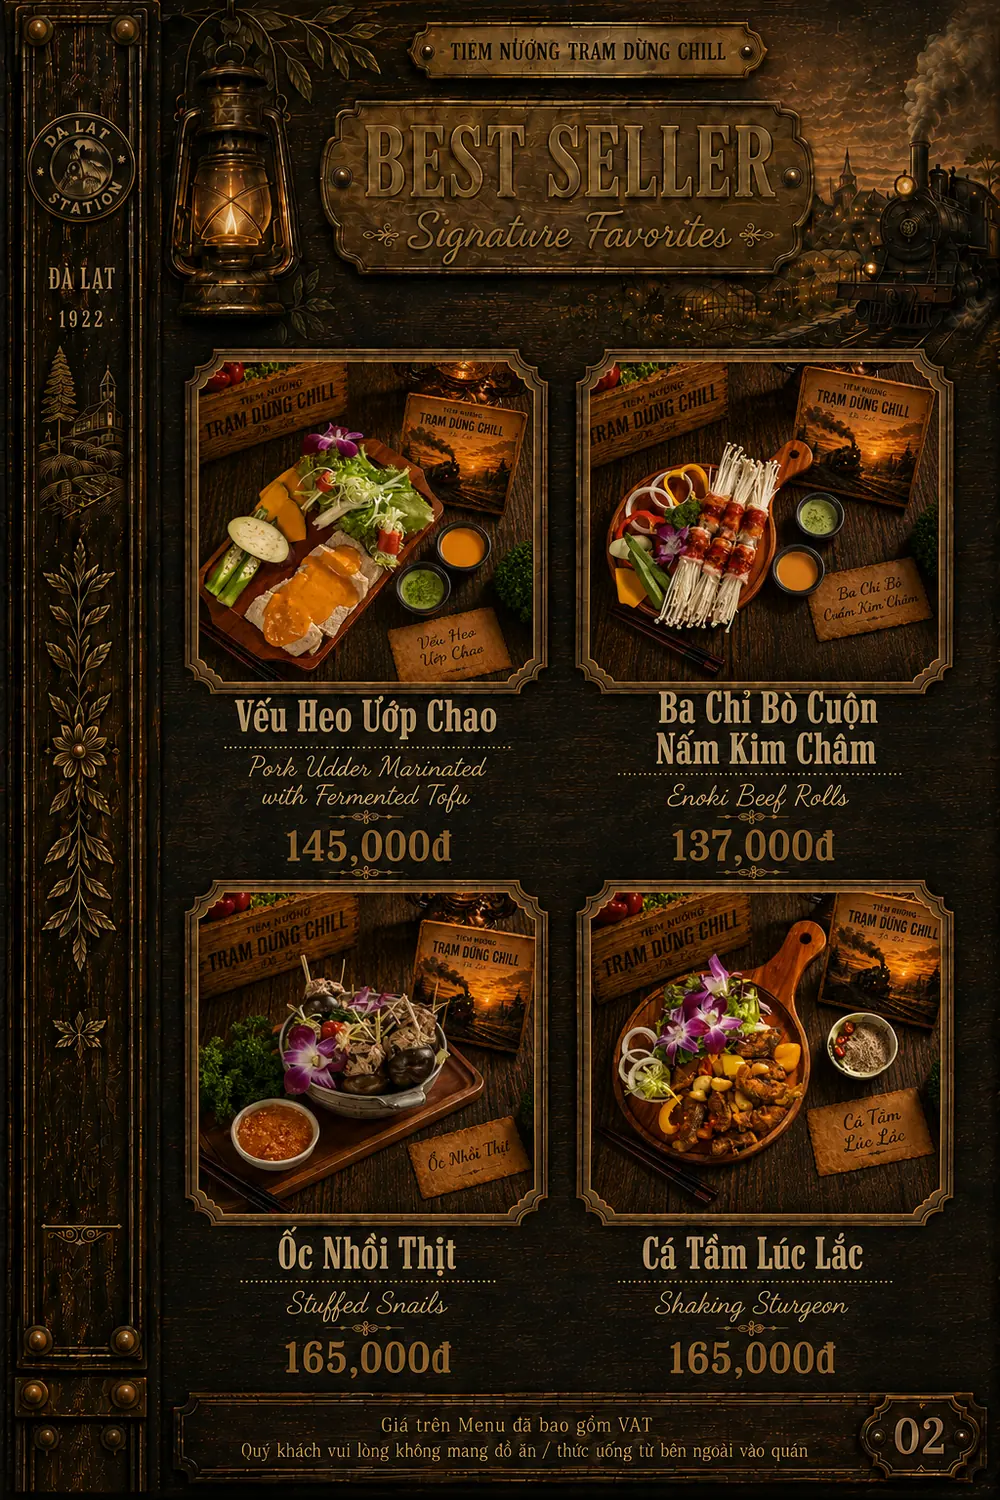
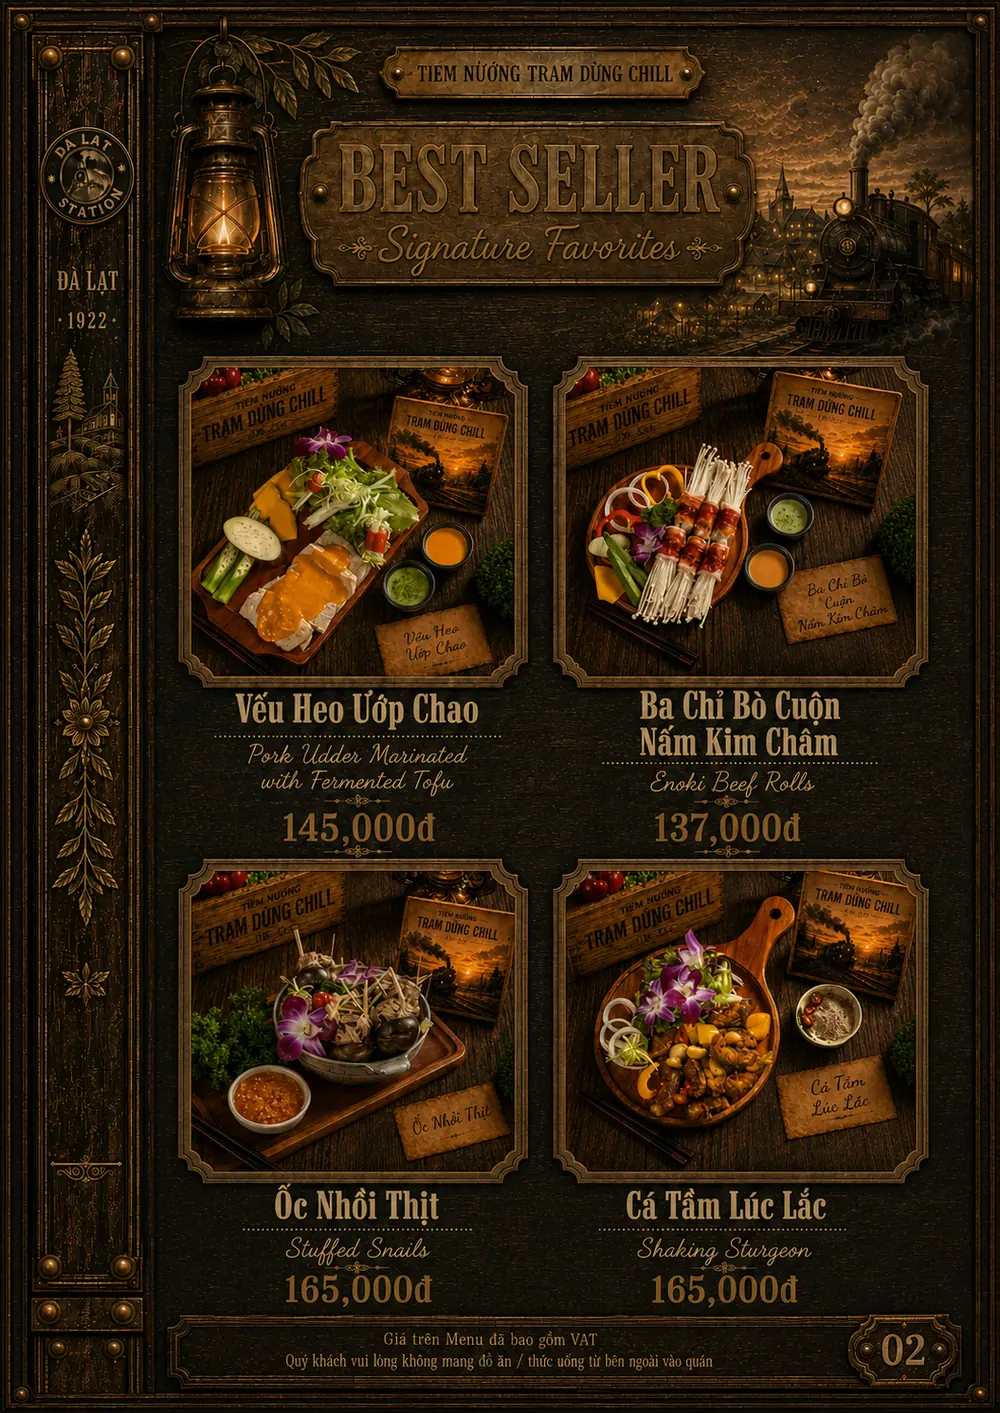
feat(menu): trang best seller 02 co anh mon that — ca quyen dong bo ti le
Trang 3 (menu so 02) gio co anh that cho ca bon mon: Veu Heo Uop Chao 145K,
Ba Chi Bo Cuon Nam Kim Cham 137K, Oc Nhoi Thit 165K, Ca Tam Luc Lac 165K.
Chinh ta hai dong chan trang dung.

Tien the sua luon cho le ti le da neu hom qua: ban cu la 1024x1536 (ti le
0,667) trong khi ca quyen 0,706-0,708, nen khi lat toi trang nay khung sach co
vien den hai ben. Ban moi 1055x1491 — gio 26/26 trang cung mot khuon.

seo-geo-verify: 32/32 PASS

diff --git a/menu.html b/menu.html
@@ -1208,10 +1208,10 @@
                     <figcaption class="flip-page-caption">Trang 2/26 — Best Seller</figcaption>
                 </figure>
                 <figure class="flip-page" data-page="3" data-group="bestseller" data-group-label="Best Seller" data-group-i18n="flip.group.bestseller">
-                    <img src="assets/menu-pages/menu-quan-nuong-da-lat-03-best-seller-veu-heo-uop-chao-oc-nhoi-thit-1000.webp?v=1ea2141a"
-                         srcset="assets/menu-pages/menu-quan-nuong-da-lat-03-best-seller-veu-heo-uop-chao-oc-nhoi-thit-560.webp?v=54e62547 560w, assets/menu-pages/menu-quan-nuong-da-lat-03-best-seller-veu-heo-uop-chao-oc-nhoi-thit-1000.webp?v=1ea2141a 1000w"
+                    <img src="assets/menu-pages/menu-quan-nuong-da-lat-03-best-seller-veu-heo-uop-chao-oc-nhoi-thit-1000.webp?v=5de73aec"
+                         srcset="assets/menu-pages/menu-quan-nuong-da-lat-03-best-seller-veu-heo-uop-chao-oc-nhoi-thit-560.webp?v=711dd791 560w, assets/menu-pages/menu-quan-nuong-da-lat-03-best-seller-veu-heo-uop-chao-oc-nhoi-thit-1000.webp?v=5de73aec 1000w"
                          sizes="(min-width: 900px) 46vw, 92vw"
-                         width="1024" height="1536"
+                         width="1055" height="1491"
                          alt="Món best seller Trạm Dừng Chill: vếu heo ướp chao, ba chỉ bò cuộn nấm kim châm, ốc nhồi thịt, cá tầm lúc lắc"
                          loading="lazy" decoding="async">
                     <figcaption class="flip-page-caption">Trang 3/26 — Best Seller</figcaption>
